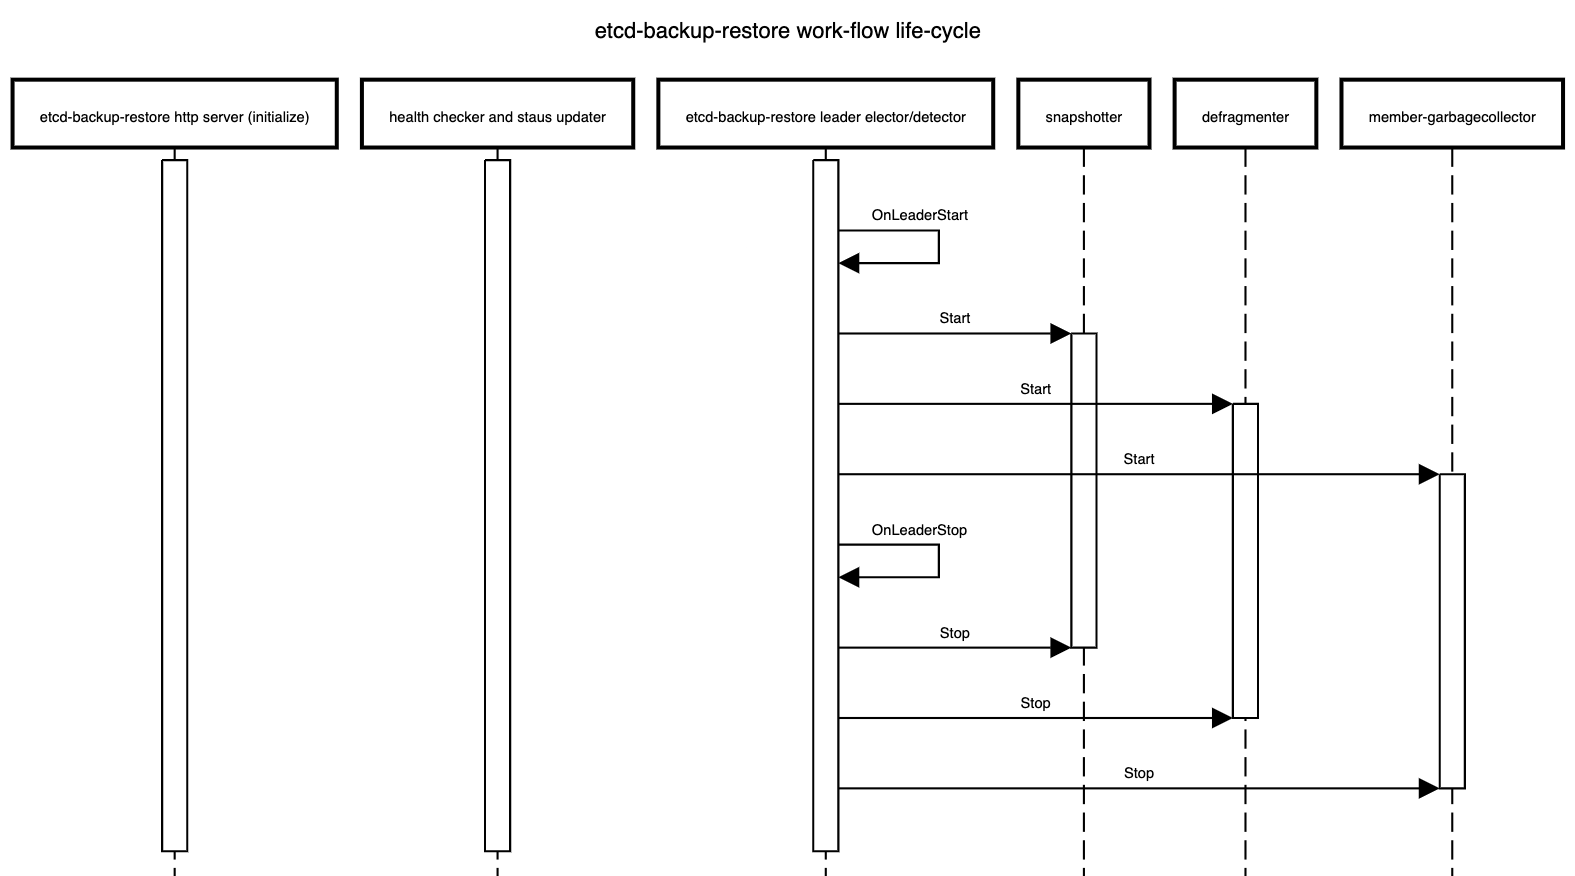
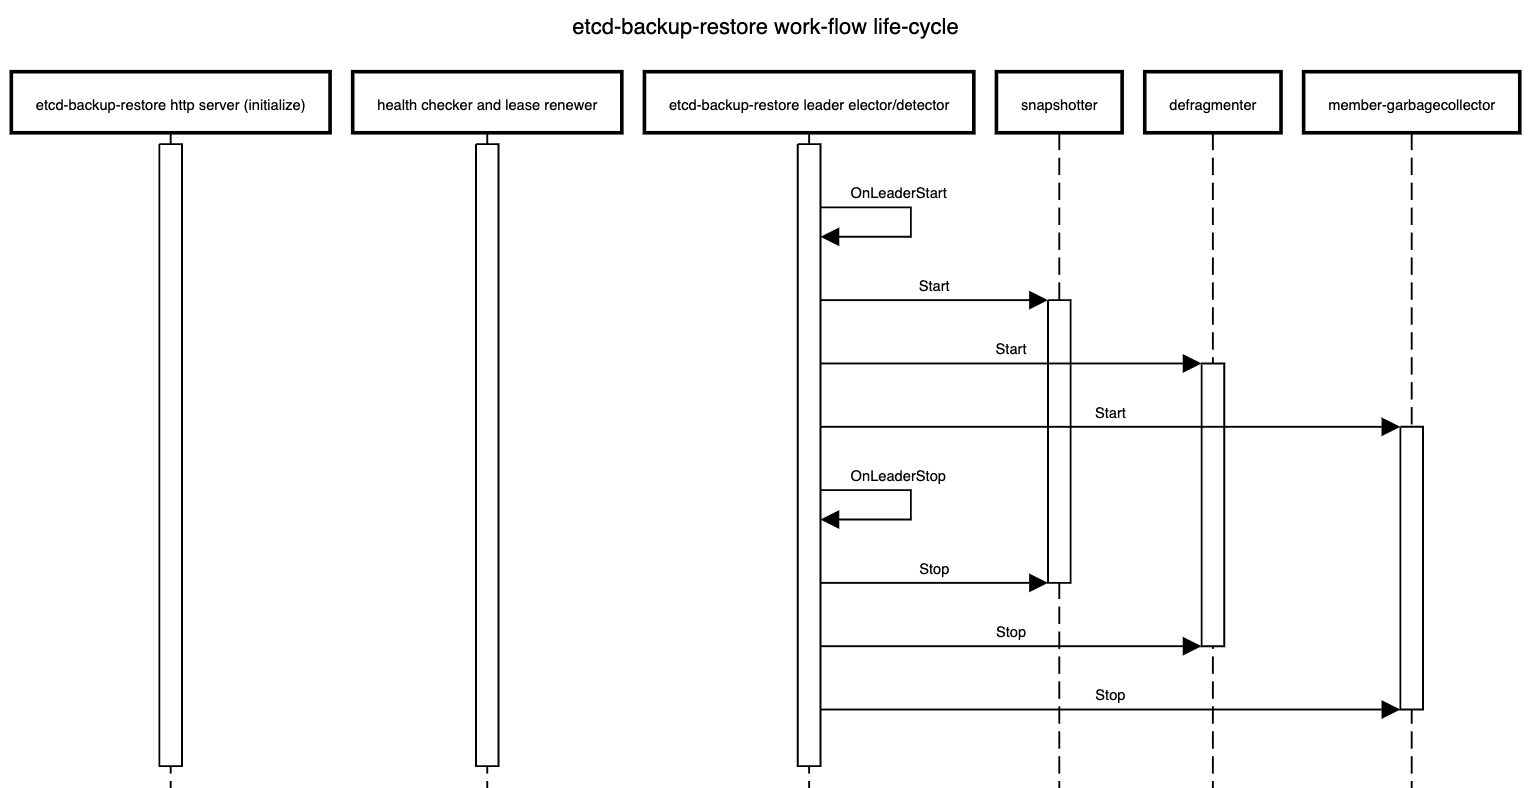
Introduced member leases.

diff --git a/docs/proposals/multi-node/README.md b/docs/proposals/multi-node/README.md
@@ -45,6 +45,9 @@ This document proposes an approach (along with some alternatives) to support pro
         - [Alternative](#alternative-3)
   - [Status](#status)
     - [Members](#members)
+      - [Note](#note-1)
+      - [Member name as the key](#member-name-as-the-key)
+      - [Member Leases](#member-leases)
     - [Conditions](#conditions)
     - [ClusterSize](#clustersize)
     - [Alternative](#alternative-4)
@@ -52,19 +55,19 @@ This document proposes an approach (along with some alternatives) to support pro
     - [1. Pink of health](#1-pink-of-health)
       - [Observed state](#observed-state)
       - [Recommended Action](#recommended-action)
-    - [2. All members are Ready but AllMembersReady condition is stale](#2-all-members-are-ready-but-allmembersready-condition-is-stale)
+    - [2. Member status is out of sync with their leases](#2-member-status-is-out-of-sync-with-their-leases)
       - [Observed state](#observed-state-1)
       - [Recommended Action](#recommended-action-1)
-    - [3. Not all members are Ready but AllMembersReady condition is stale](#3-not-all-members-are-ready-but-allmembersready-condition-is-stale)
+    - [3. All members are Ready but AllMembersReady condition is stale](#3-all-members-are-ready-but-allmembersready-condition-is-stale)
       - [Observed state](#observed-state-2)
       - [Recommended Action](#recommended-action-2)
-    - [4. Majority members are Ready but Ready condition is stale](#4-majority-members-are-ready-but-ready-condition-is-stale)
+    - [4. Not all members are Ready but AllMembersReady condition is stale](#4-not-all-members-are-ready-but-allmembersready-condition-is-stale)
       - [Observed state](#observed-state-3)
       - [Recommended Action](#recommended-action-3)
-    - [5. Majority members are NotReady but Ready condition is stale](#5-majority-members-are-notready-but-ready-condition-is-stale)
+    - [5. Majority members are Ready but Ready condition is stale](#5-majority-members-are-ready-but-ready-condition-is-stale)
       - [Observed state](#observed-state-4)
       - [Recommended Action](#recommended-action-4)
-    - [6. Some members have not updated their status for a while](#6-some-members-have-not-updated-their-status-for-a-while)
+    - [6. Majority members are NotReady but Ready condition is stale](#6-majority-members-are-notready-but-ready-condition-is-stale)
       - [Observed state](#observed-state-5)
       - [Recommended Action](#recommended-action-5)
     - [7. Some members have been in Unknown status for a while](#7-some-members-have-been-in-unknown-status-for-a-while)
@@ -561,30 +564,36 @@ status:
   members:
   - name: etcd-main-0          # member pod name
     id: 272e204152             # member Id
-    role: Member               # Member|Learner
+    role: Leader               # Member|Leader
     status: Ready              # Ready|NotReady|Unknown
-    lastHeartbeatTime:         "2020-11-10T12:48:01Z"
     lastTransitionTime:        "2020-11-10T12:48:01Z"
-    reason: HeartbeatSucceeded # HeartbeatSucceeded|HeartbeatFailed|HeartbeatGracePeriodExceeded|UnknownGracePeriodExceeded|PodNotReady
+    reason: LeaseSucceeded     # LeaseSucceeded|LeaseExpired|UnknownGracePeriodExceeded|PodNotRead
   - name: etcd-main-1          # member pod name
-    id: 272e204152             # member Id
-    role: Member               # Member|Learner
+    id: 272e204153             # member Id
+    role: Member               # Member|Leader
     status: Ready              # Ready|NotReady|Unknown
-    lastHeartbeatTime:         "2020-11-10T12:48:01Z"
     lastTransitionTime:        "2020-11-10T12:48:01Z"
-    reason: HeartbeatSucceeded # HeartbeatSucceeded|HeartbeatFailed|HeartbeatGracePeriodExceeded|UnknownGracePeriodExceeded|PodNotReady
+    reason: LeaseSucceeded     # LeaseSucceeded|LeaseExpired|UnknownGracePeriodExceeded|PodNotRead
 ```
 
-This proposal recommendations to enhance `etcd-backup-restore` so that the _leading_ backup-restore sidecar container maintains the above status information in the `Etcd` status sub-resource.
+This proposal recommends that `etcd-druid` (preferrably, the `custodian` controller in `etcd-druid`) maintains most of the information in the `status` of the `Etcd` resources described above.
+
+One exception to this is the `BackupReady` condition which is recommended to be maintained by the _leading_ `etcd-backup-restore` sidecar container.
 This will mean that `etcd-backup-restore` becomes Kubernetes-aware. But there are other reasons for making `etcd-backup-restore` Kubernetes-aware anyway (e.g. to [maintain health conditions](#health-check)).
 This enhancement should keep `etcd-backup-restore` backward compatible.
 But it should be possible to use `etcd-backup-restore` Kubernetes-unaware as before this proposal. This is possible either by auto-detecting the existence of kubeconfig or by an explicit command-line flag (such as `--enable-etcd-status-updates` which can be defaulted to `false` for backward compatibility).
 
 ### Members
 
-The `members` section of the status is intended to be updated by the `etcd-backup-restore` sidecar container corresponding to the member for the most part.
-Especially, members can be marked with `status: Ready` only by their `etcd-backup-restore` sidecar container.
-However, they can be marked with `status: NotReady` either by their `etcd-backup-restore` sidecar container (with `reason: HeartbeatFailed`) or by `etcd-druid` (as explained [below](#decision-table-for-etcd-druid-based-on-the-status)).
+ The `members` section of the status is intended to be maintained by `etcd-druid` (preferraby, the `custodian` controller of `etcd-druid`) based on the [`leases` of the individual members](#member-leases).
+
+#### Note
+
+An earlier design in this proposal was for the individual `etcd-backup-restore` sidecars to update the corresponding `status.members` entries themselves. But this was redesigned to use [member `leases`](#member-leases) to avoid conflicts rising from frequent updates and the limitations in the support for [Server-Side Apply](https://kubernetes.io/docs/reference/using-api/server-side-apply/) in some versions of Kubernetes.
+
+The `spec.holderIdentity` field in the `leases` is used to communicate the ETCD member `id` and `role` between the `etcd-backup-restore` sidecars and `etcd-druid`.
+
+#### Member name as the key
 
 In an ETCD cluster, the member `id` is the [unique identifier for a member](https://etcd.io/docs/v3.4/dev-guide/api_reference_v3/#message-member-etcdserveretcdserverpbrpcproto).
 However, this proposal recommends using a [single `StatefulSet`](#kubernetes-context) whose pods form the members of the ETCD cluster and `Pods` of a `StatefulSet` have [uniquely indexed names](https://kubernetes.io/docs/concepts/workloads/controllers/statefulset/#ordinal-index) as well as [uniquely addressible DNS](https://kubernetes.io/docs/concepts/workloads/controllers/statefulset/#stable-network-id).
@@ -597,6 +606,25 @@ There is still the possibility of not only [superfluous entries in the `members`
 For example, if an ETCD cluster is scaled up from `3` to `5` and the new members were failing constantly due to insufficient resources and then if the ETCD client is scaled back down to `3` and failing member pods may not have the chance to clean up their `member` entries (from the `members` array as well as from the ETCD cluster) leading to superfluous members in the cluster that may have adverse effect on quorum of the cluster.
 
 Hence, the superfluous entries in both `members` array as well as the ETCD cluster need to be [cleaned up](#recommended-action-12) [as appropriate](#work-flows-only-on-the-leading-member).
+
+#### Member Leases
+
+One [Kubernetes `lease` object](https://kubernetes.io/docs/reference/kubernetes-api/cluster-resources/lease-v1/) per desired ETCD member is maintained by `etcd-druid` (preferrably, the `custodian` controller in `etcd-druid`).
+The `lease` objects will be created in the same `namespace` as their owning `Etcd` object and will have the same `name` as the member to which they correspond (which, in turn would be the same as [the `pod` name in which the member ETCD process runs](#member-name-as-the-key)).
+
+The `lease` objects are created and deleted only by `etcd-druid` but are continually renewed within the `leaseDurationSeconds` by the [individual `etcd-backup-restore` sidecars](#work-flows-independent-of-leader-election-in-all-members) (corresponding to their members) if the the corresponding ETCD member is ready and is part of the ETCD cluster.
+
+This will mean that `etcd-backup-restore` becomes Kubernetes-aware. But there are other reasons for making `etcd-backup-restore` Kubernetes-aware anyway (e.g. to [maintain health conditions](#health-check)).
+This enhancement should keep `etcd-backup-restore` backward compatible.
+But it should be possible to use `etcd-backup-restore` Kubernetes-unaware as before this proposal. This is possible either by auto-detecting the existence of kubeconfig or by an explicit command-line flag (such as `--enable-etcd-lease-renewal` which can be defaulted to `false` for backward compatibility).
+
+A `member` entry in the `Etcd` resource [`status`](#status) would be marked as `Ready` (with `reason: LeaseSucceeded`) if the corresponding `pod` is ready  and the corresponding `lease` has not yet expired.
+The `member` entry would be marked as `NotReady` if the corresponding `pod` is not ready (with reason `PodNotReady`) or as `Unknown` if the corresponding `lease` has expired (with `reason: LeaseExpired`).
+
+While renewing the lease, the `etcd-backup-restore` sidecars also maintain the ETCD member `id` and their `role` (`Leader` or `Member`) separated by `:` in the `spec.holderIdentity` field of the corresponding `lease` object since this information is only available to the `ETCD` member processes and the `etcd-backup-restore` sidecars (e.g. `272e204152:Leader` or `272e204153:Member`).
+When the `lease` objects are created by `etcd-druid`, the `spec.holderIdentity` field would be empty.
+
+The value in `spec.holderIdentity` in the `leases` is parsed and copied onto the `id` and `role` fields of the corresponding `status.members` by `etcd-druid`.
 
 ### Conditions
 
@@ -652,7 +680,7 @@ Especially, it is proposed that individual members auto-heal where possible, eve
     - Ready: `n`
     - Members `NotReady` for long enough to be evicted, i.e. `lastTransitionTime > notReadyGracePeriod`: `0`
     - Members with readiness status `Unknown` long enough to be considered `NotReady`, i.e. `lastTransitionTime > unknownGracePeriod`: `0`
-    - Members with heartbeat stale enough to be considered as of `Unknown` readiness status, i.e. `lastHeartbeatTime > heartbeatGracePeriod`: `0`
+    - Members with expired `lease`: `0`
   - conditions:
     - Ready: `true`
     - AllMembersReady: `true`
@@ -662,7 +690,37 @@ Especially, it is proposed that individual members auto-heal where possible, eve
 
 Nothing to do
 
-### 2. All members are `Ready` but `AllMembersReady` condition is stale
+### 2. Member status is out of sync with their leases
+
+#### Observed state
+
+- Cluster Size
+  - Desired: `n`
+  - Current: `n`
+- `StatefulSet` replicas
+  - Desired: `n`
+  - Ready: `n`
+- `Etcd` status
+  - members
+    - Total: `n`
+    - Ready: `r`
+    - Members `NotReady` for long enough to be evicted, i.e. `lastTransitionTime > notReadyGracePeriod`: `0`
+    - Members with readiness status `Unknown` long enough to be considered `NotReady`, i.e. `lastTransitionTime > unknownGracePeriod`: `0`
+    - Members with expired `lease`: `l`
+  - conditions:
+    - Ready: `true`
+    - AllMembersReady: `true`
+    - BackupReady: `true`
+
+#### Recommended Action
+
+Mark the `l` members corresponding to the expired `leases` as `Unknown` with reason `LeaseExpired` and with `id` populated from `spec.holderIdentity` of the `lease` if they are not already updated so.
+
+Mark the `n - l` members corresponding to the active `leases` as `Ready` with reason `LeaseSucceeded` and with `id` populated from `spec.holderIdentity` of the `lease` if they are not already updated so.
+
+Please refer [here](#member-leases) for more details.
+
+### 3. All members are `Ready` but `AllMembersReady` condition is stale
 
 #### Observed state
 
@@ -678,7 +736,7 @@ Nothing to do
     - Ready: `n`
     - Members `NotReady` for long enough to be evicted, i.e. `lastTransitionTime > notReadyGracePeriod`: `0`
     - Members with readiness status `Unknown` long enough to be considered `NotReady`, i.e. `lastTransitionTime > unknownGracePeriod`: `0`
-    - Members with heartbeat stale enough to be considered as of `Unknown` readiness status, i.e. `lastHeartbeatTime > heartbeatGracePeriod`: `0`
+    - Members with expired `lease`: `0`
   - conditions:
     - Ready: N/A
     - AllMembersReady: false
@@ -688,7 +746,7 @@ Nothing to do
 
 Mark the status condition type `AllMembersReady` to `true`.
 
-### 3. Not all members are `Ready` but `AllMembersReady` condition is stale
+### 4. Not all members are `Ready` but `AllMembersReady` condition is stale
 
 #### Observed state
 
@@ -704,7 +762,7 @@ Mark the status condition type `AllMembersReady` to `true`.
     - Ready: `r` where `0 <= r < n`
     - Members `NotReady` for long enough to be evicted, i.e. `lastTransitionTime > notReadyGracePeriod`: `nr` where `0 < nr < n`
     - Members with readiness status `Unknown` long enough to be considered `NotReady`, i.e. `lastTransitionTime > unknownGracePeriod`: `u` where `0 < u < n`
-    - Members with heartbeat stale enough to be considered as of `Unknown` readiness status, i.e. `lastHeartbeatTime > heartbeatGracePeriod`: `h` where `0 < h < n`
+    - Members with expired `lease`: `h` where `0 < h < n`
   - conditions:
     - Ready: N/A
     - AllMembersReady: true
@@ -716,7 +774,7 @@ Mark the status condition type `AllMembersReady` to `true`.
 
 Mark the status condition type `AllMembersReady` to `false`.
 
-### 4. Majority members are `Ready` but `Ready` condition is stale
+### 5. Majority members are `Ready` but `Ready` condition is stale
 
 #### Observed state
 
@@ -732,7 +790,7 @@ Mark the status condition type `AllMembersReady` to `false`.
     - Ready: `r` where `r > n/2`
     - Members `NotReady` for long enough to be evicted, i.e. `lastTransitionTime > notReadyGracePeriod`: `nr` where `0 < nr < n/2`
     - Members with readiness status `Unknown` long enough to be considered `NotReady`, i.e. `lastTransitionTime > unknownGracePeriod`: `u` where `0 < u < n/2`
-    - Members with heartbeat stale enough to be considered as of `Unknown` readiness status, i.e. `lastHeartbeatTime > heartbeatGracePeriod`: `h` where `0 < h < n/2`
+    - Members with expired `lease`: N/A
   - conditions:
     - Ready: `false`
     - AllMembersReady: N/A
@@ -744,7 +802,7 @@ Mark the status condition type `AllMembersReady` to `false`.
 
 Mark the status condition type `Ready` to `true`.
 
-### 5. Majority members are `NotReady` but `Ready` condition is stale
+### 6. Majority members are `NotReady` but `Ready` condition is stale
 
 #### Observed state
 
@@ -760,7 +818,7 @@ Mark the status condition type `Ready` to `true`.
     - Ready: `r` where `0 < r < n`
     - Members `NotReady` for long enough to be evicted, i.e. `lastTransitionTime > notReadyGracePeriod`: `nr` where `0 < nr < n`
     - Members with readiness status `Unknown` long enough to be considered `NotReady`, i.e. `lastTransitionTime > unknownGracePeriod`: `u` where `0 < u < n`
-    - Members with heartbeat stale enough to be considered as of `Unknown` readiness status, i.e. `lastHeartbeatTime > heartbeatGracePeriod`: `h` where `0 < h < n`
+    - Members with expired `lease`: N/A
   - conditions:
     - Ready: `true`
     - AllMembersReady: N/A
@@ -771,32 +829,6 @@ Mark the status condition type `Ready` to `true`.
 #### Recommended Action
 
 Mark the status condition type `Ready` to `false`.
-
-### 6. Some members have not updated their status for a while
-
-#### Observed state
-
-- Cluster Size
-  - Desired: N/A
-  - Current: `n`
-- `StatefulSet` replicas
-  - Desired: N/A
-  - Ready: N/A
-- `Etcd` status
-  - members
-    - Total: N/A
-    - Ready: N/A
-    - Members `NotReady` for long enough to be evicted, i.e. `lastTransitionTime > notReadyGracePeriod`: N/A
-    - Members with readiness status `Unknown` long enough to be considered `NotReady`, i.e. `lastTransitionTime > unknownGracePeriod`: N/A
-    - Members with heartbeat stale enough to be considered as of `Unknown` readiness status, i.e. `lastHeartbeatTime > heartbeatGracePeriod`: `h` where `h <= n`
-  - conditions:
-    - Ready: N/A
-    - AllMembersReady: N/A
-    - BackupReady: N/A
-
-#### Recommended Action
-
-Mark the `h` members as `Unknown` in `Etcd` status with `reason: HeartbeatGracePeriodExceeded`.
 
 ### 7. Some members have been in `Unknown` status for a while
 
@@ -814,7 +846,7 @@ Mark the `h` members as `Unknown` in `Etcd` status with `reason: HeartbeatGraceP
     - Ready: N/A
     - Members `NotReady` for long enough to be evicted, i.e. `lastTransitionTime > notReadyGracePeriod`: N/A
     - Members with readiness status `Unknown` long enough to be considered `NotReady`, i.e. `lastTransitionTime > unknownGracePeriod`: `u` where `u <= n`
-    - Members with heartbeat stale enough to be considered as of `Unknown` readiness status, i.e. `lastHeartbeatTime > heartbeatGracePeriod`: N/A
+    - Members with expired `lease`: N/A
   - conditions:
     - Ready: N/A
     - AllMembersReady: N/A
@@ -840,7 +872,7 @@ Mark the `u` members as `NotReady` in `Etcd` status with `reason: UnknownGracePe
     - Ready: N/A
     - Members `NotReady` for long enough to be evicted, i.e. `lastTransitionTime > notReadyGracePeriod`: N/A
     - Members with readiness status `Unknown` long enough to be considered `NotReady`, i.e. `lastTransitionTime > unknownGracePeriod`: N/A
-    - Members with heartbeat stale enough to be considered as of `Unknown` readiness status, i.e. `lastHeartbeatTime > heartbeatGracePeriod`: N/A
+    - Members with expired `lease`: N/A
   - conditions:
     - Ready: N/A
     - AllMembersReady: N/A
@@ -866,7 +898,7 @@ Mark the `n - s` members (corresponding to the pods that are not `Ready`) as `No
     - Ready: `n - f`
     - Members `NotReady` for long enough to be evicted, i.e. `lastTransitionTime > notReadyGracePeriod`: `f` where `f < n/2`
     - Members with readiness status `Unknown` long enough to be considered `NotReady`, i.e. `lastTransitionTime > unknownGracePeriod`: `0`
-    - Members with heartbeat stale enough to be considered as of `Unknown` readiness status, i.e. `lastHeartbeatTime > heartbeatGracePeriod`: N/A
+    - Members with expired `lease`: N/A
   - conditions:
     - Ready: true
     - AllMembersReady: false
@@ -874,7 +906,7 @@ Mark the `n - s` members (corresponding to the pods that are not `Ready`) as `No
 
 #### Recommended Action
 
-Delete the `f` `NotReady` member pods to force restart of the pods if they do not automatically restart via failed `livenessProbe`. The expectation is that they will either re-join the cluster as an existing member or remove themselves and join as new members on restart of the container or pod.
+Delete the `f` `NotReady` member pods to force restart of the pods if they do not automatically restart via failed `livenessProbe`. The expectation is that they will either re-join the cluster as an existing member or remove themselves and join as new members on restart of the container or pod and [renew their `leases`](#member-leases).
 
 ### 10. Quorum lost with a majority of members `NotReady`
 
@@ -892,7 +924,7 @@ Delete the `f` `NotReady` member pods to force restart of the pods if they do no
     - Ready: `n - f`
     - Members `NotReady` for long enough to be evicted, i.e. `lastTransitionTime > notReadyGracePeriod`: `f` where `f >= n/2`
     - Members with readiness status `Unknown` long enough to be considered `NotReady`, i.e. `lastTransitionTime > unknownGracePeriod`: N/A
-    - Members with heartbeat stale enough to be considered as of `Unknown` readiness status, i.e. `lastHeartbeatTime > heartbeatGracePeriod`: N/A
+    - Members with expired `lease`: N/A
   - conditions:
     - Ready: false
     - AllMembersReady: false
@@ -900,7 +932,7 @@ Delete the `f` `NotReady` member pods to force restart of the pods if they do no
 
 #### Recommended Action
 
-Scale down the `StatefulSet` to `replicas: 0`. Ensure that all member pods are deleted. Ensure that all the members are removed from `Etcd` status. Recover the cluster from loss of quorum as discussed [here](#recovering-an-etcd-cluster-from-failure-of-majority-of-members).
+Scale down the `StatefulSet` to `replicas: 0`. Ensure that all member pods are deleted. Ensure that all the members are removed from `Etcd` status. Delete and recreate all the [member `leases`](#member-leases). Recover the cluster from loss of quorum as discussed [here](#recovering-an-etcd-cluster-from-failure-of-majority-of-members).
 
 ### 11. Scale up of a healthy cluster
 
@@ -918,7 +950,7 @@ Scale down the `StatefulSet` to `replicas: 0`. Ensure that all member pods are d
     - Ready: `n`
     - Members `NotReady` for long enough to be evicted, i.e. `lastTransitionTime > notReadyGracePeriod`: 0
     - Members with readiness status `Unknown` long enough to be considered `NotReady`, i.e. `lastTransitionTime > unknownGracePeriod`: 0
-    - Members with heartbeat stale enough to be considered as of `Unknown` readiness status, i.e. `lastHeartbeatTime > heartbeatGracePeriod`: 0
+    - Members with expired `lease`: 0
   - conditions:
     - Ready: true
     - AllMembersReady: true
@@ -927,6 +959,8 @@ Scale down the `StatefulSet` to `replicas: 0`. Ensure that all member pods are d
 #### Recommended Action
 
 Add `d - n` new members by scaling the `StatefulSet` to `replicas: d`. The rest of the `StatefulSet` spec need not be updated until the next cluster bootstrapping (alternatively, the rest of the `StatefulSet` spec can be updated pro-actively once the new members join the cluster. This will trigger a rolling update).
+
+Also, create the additional [member `leases`](#member-leases) for the `d - n` new members.
 
 ### 12. Scale down of a healthy cluster
 
@@ -944,7 +978,7 @@ Add `d - n` new members by scaling the `StatefulSet` to `replicas: d`. The rest 
     - Ready: `n`
     - Members `NotReady` for long enough to be evicted, i.e. `lastTransitionTime > notReadyGracePeriod`: 0
     - Members with readiness status `Unknown` long enough to be considered `NotReady`, i.e. `lastTransitionTime > unknownGracePeriod`: 0
-    - Members with heartbeat stale enough to be considered as of `Unknown` readiness status, i.e. `lastHeartbeatTime > heartbeatGracePeriod`: 0
+    - Members with expired `lease`: 0
   - conditions:
     - Ready: true
     - AllMembersReady: true
@@ -953,6 +987,8 @@ Add `d - n` new members by scaling the `StatefulSet` to `replicas: d`. The rest 
 #### Recommended Action
 
 Remove `d - n` existing members (numbered `d`, `d + 1` ... `n`) by scaling the `StatefulSet` to `replicas: d`. The `StatefulSet` spec need not be updated until the next cluster bootstrapping (alternatively, the `StatefulSet` spec can be updated pro-actively once the superfluous members exit the cluster. This will trigger a rolling update).
+
+Also, delete the [member `leases`](#member-leases) for the `d - n` members being removed.
 
 The [superfluous entries in the `members` array](13-superfluous-member-entries-in-etcd-status) will be cleaned up as explained [here](#recommended-action-12).
 The superfluous members in the ETCD cluster will be cleaned up by the [leading `etcd-backup-restore` sidecar](#work-flows-only-on-the-leading-member).
@@ -973,7 +1009,7 @@ The superfluous members in the ETCD cluster will be cleaned up by the [leading `
     - Ready: N/A
     - Members `NotReady` for long enough to be evicted, i.e. `lastTransitionTime > notReadyGracePeriod`: N/A
     - Members with readiness status `Unknown` long enough to be considered `NotReady`, i.e. `lastTransitionTime > unknownGracePeriod`: N/A
-    - Members with heartbeat stale enough to be considered as of `Unknown` readiness status, i.e. `lastHeartbeatTime > heartbeatGracePeriod`: N/A
+    - Members with expired `lease`: N/A
   - conditions:
     - Ready: N/A
     - AllMembersReady: N/A
@@ -982,6 +1018,7 @@ The superfluous members in the ETCD cluster will be cleaned up by the [leading `
 #### Recommended Action
 
 Remove the superfluous `m - n` member entries from `Etcd` status (numbered `n`, `n+1` ... `m`).
+Remove the superfluous `m - n` [member `leases`](#member-leases) if they exist.
 The superfluous members in the ETCD cluster will be cleaned up by the [leading `etcd-backup-restore` sidecar](#work-flows-only-on-the-leading-member).
 
 ## Decision table for etcd-backup-restore during initialization
@@ -1206,7 +1243,7 @@ The life-cycle of these work-flows is shown below.
 ### Work-flows independent of leader election in all members
 
 - Serve the HTTP API that all members are expected to support currently
-- Check the health of the respective etcd member and update the corresponding entry in the [`status.members` array](#members)
+- Check the health of the respective etcd member and renew the corresponding [member `lease`](#member-leases).
 
 ### Work-flows only on the leading member
 
